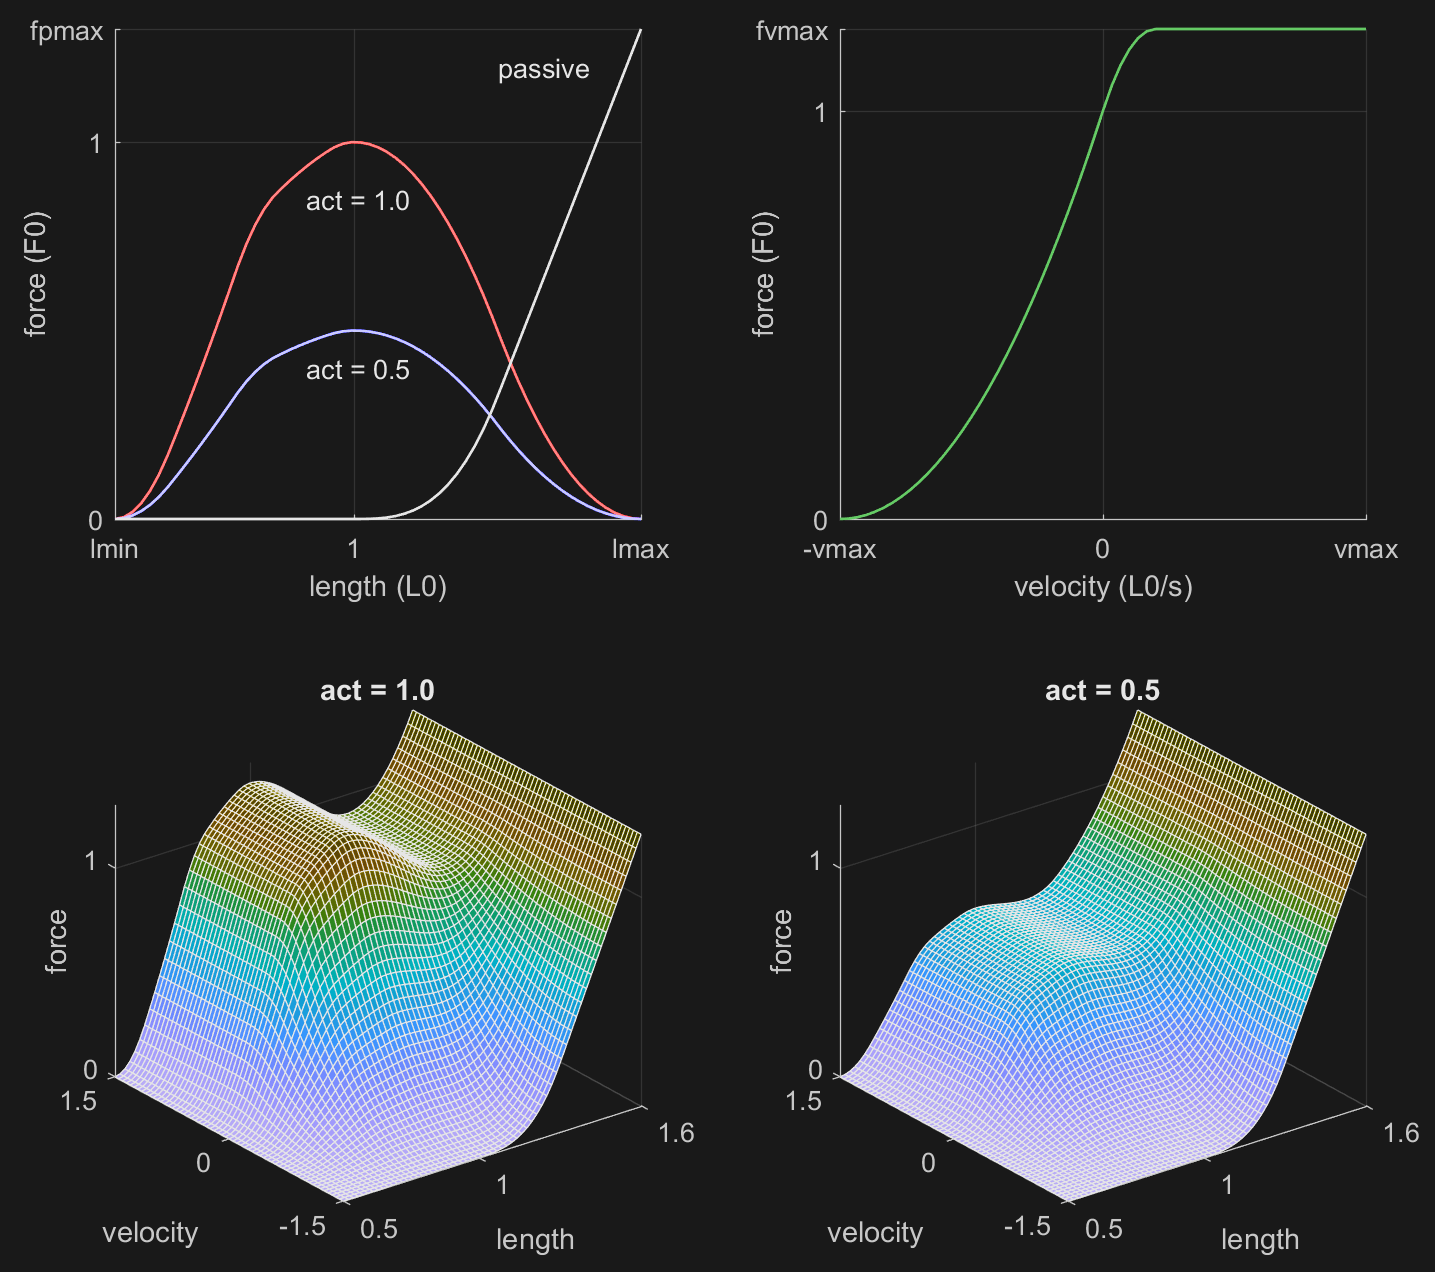
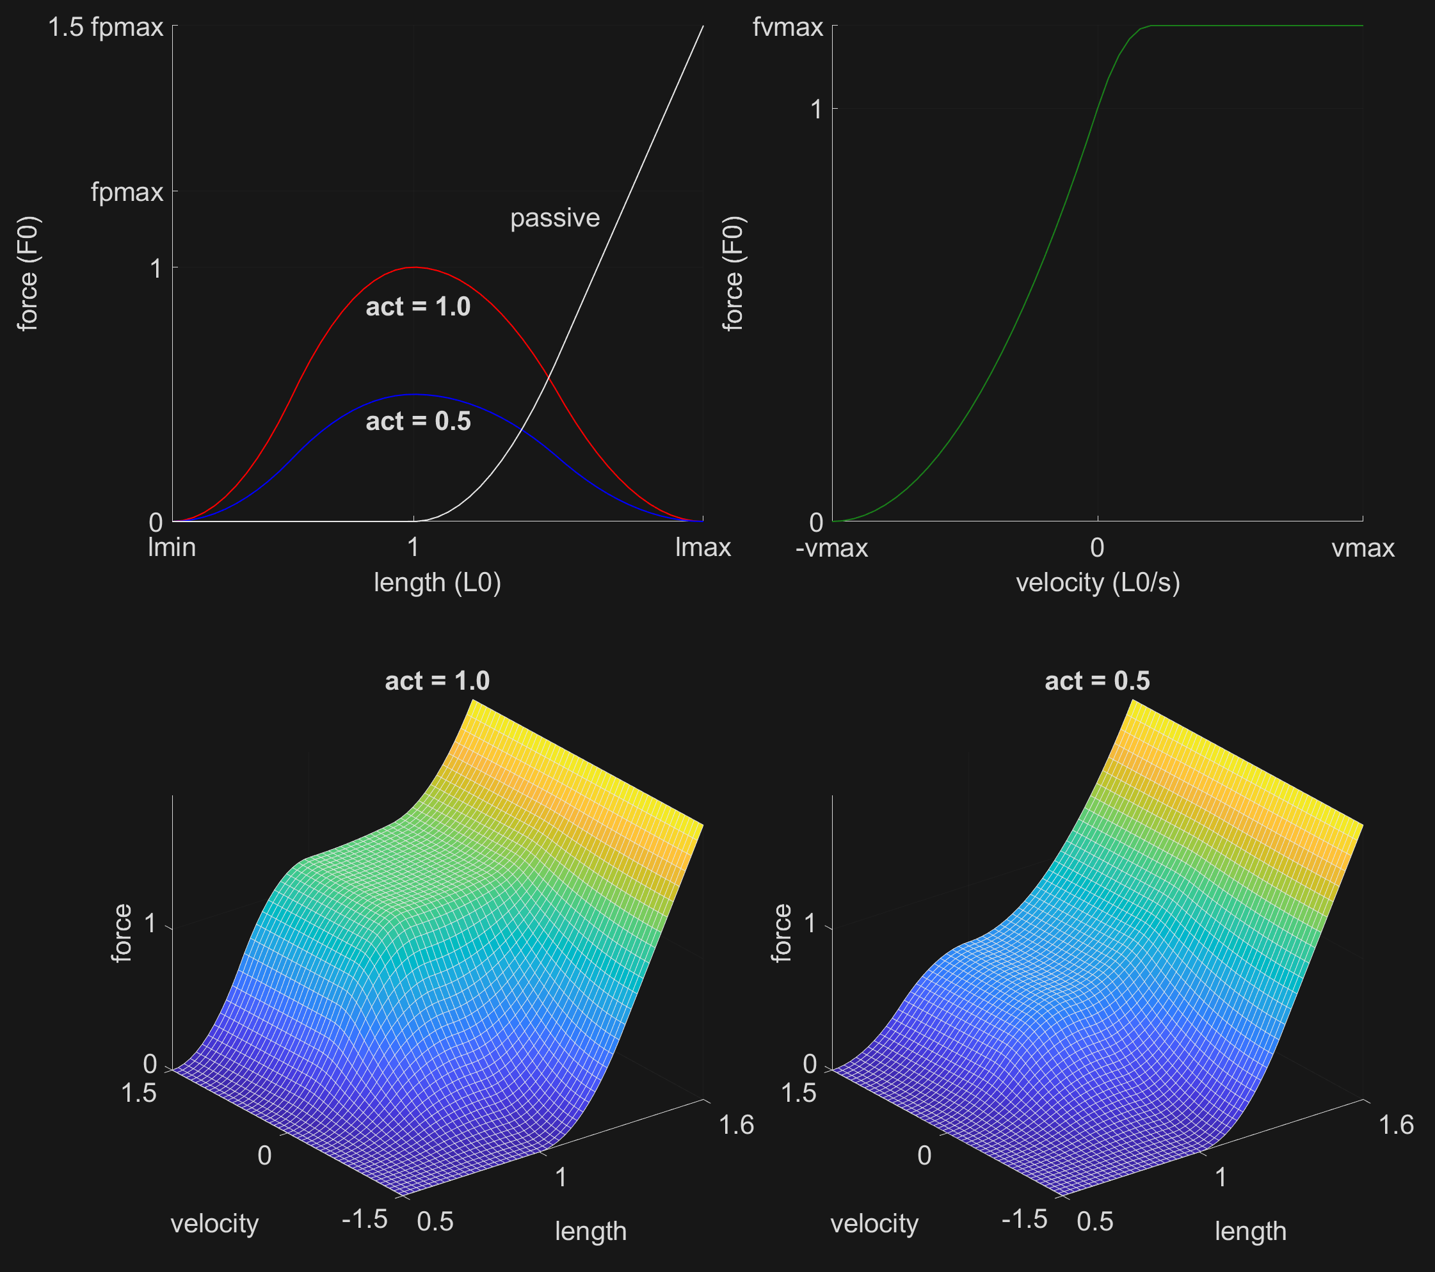
Update muscle model documentation to match the FLV curve implementation in `src/engine/engine_util_misc.c`

diff --git a/doc/_static/FLV.m b/doc/_static/FLV.m
@@ -23,6 +23,9 @@ function FLV(lmin, lmax, vmax, fpmax, fvmax)
   a = 0.5*(lmin+1);
   b = 0.5*(1+lmax);
   c = fvmax-1;
+  fontsize = 20;
+  axpos = {[0.12 0.59 0.37 0.39], [0.58 0.59 0.37 0.39], ...
+           [0.12 0.06 0.37 0.39], [0.58 0.06 0.37 0.39]};
 
     % length and velocity ranges to plot
     LL = linspace(lmin, lmax, 51);
@@ -37,10 +40,10 @@ function FLV(lmin, lmax, vmax, fpmax, fvmax)
             FP(i) = 0;
         elseif L<=b
             x = (L-1)/(b-1);
-            FP(i) = 0.25*fpmax*x*x*x;
+            FP(i) = 0.5*fpmax*x*x;
         else
             x = (L-b)/(b-1);
-            FP(i) = 0.25*fpmax*(1+3*x);
+            FP(i) = fpmax*(0.5+x);
         end
     end
 
@@ -49,7 +52,7 @@ function FLV(lmin, lmax, vmax, fpmax, fvmax)
     for i=1:length(LL)
         L = LL(i);
 
-        FL(i) = bump(L, lmin, 1, lmax) + 0.15*bump(L, lmin, 0.5*(lmin+0.95), 0.95);
+        FL(i) = bump(L, lmin, 1, lmax);
     end
 
     % velocity-active
@@ -72,6 +75,7 @@ function FLV(lmin, lmax, vmax, fpmax, fvmax)
     figure(1);
     clf;
     subplot(2,2,1);
+    set(gca, 'position', axpos{1});
     plot(LL, FL, 'r', 'linewidth', 1);
     hold on;
     plot(LL, 0.5*FL, 'b', 'linewidth', 1);
@@ -81,14 +85,15 @@ function FLV(lmin, lmax, vmax, fpmax, fvmax)
     ylabel('force (F0)');
     text(0.9, 0.85, 'act = 1.0');
     text(0.9, 0.4, 'act = 0.5');
-    text(1.3, 1.2, 'passive');
+    text(1.2, 1.2, 'passive');
     box off;
     grid on;
     set(gca, 'xtick', [lmin 1 lmax], 'xticklabel', {'lmin', '1', 'lmax'}, ...
-    'ytick', [0 1 fpmax], 'yticklabel', {'0', '1', 'fpmax'});
+    'ytick', [0 1 fpmax 1.5*fpmax], 'yticklabel', {'0', '1', 'fpmax', '1.5 fpmax'});
 
     % plot velocity
     subplot(2,2,2);
+    set(gca, 'position', axpos{2});
     set( plot(VV, FV, 'linewidth', 1), 'color', [.1 .5 .1]);
     axis tight;
     xlabel('velocity (L0/s)');
@@ -100,6 +105,7 @@ function FLV(lmin, lmax, vmax, fpmax, fvmax)
 
     % plot full activation
     subplot(2,2,3);
+    set(gca, 'position', axpos{3});
     surf(LL, VV, FV'*FL + ones(size(VV))'*FP);
     axis tight;
     xlabel('length');
@@ -111,6 +117,7 @@ function FLV(lmin, lmax, vmax, fpmax, fvmax)
 
     % plot half activation
     subplot(2,2,4);
+    set(gca, 'position', axpos{4});
     surf(LL, VV, 0.5*FV'*FL + ones(size(VV))'*FP);
     axis tight;
     xlabel('length');
@@ -119,6 +126,9 @@ function FLV(lmin, lmax, vmax, fpmax, fvmax)
     title('act = 0.5');
     box off;
     set(gca, 'xtick', [lmin, 1, lmax], 'ytick', [-vmax, 0, vmax], 'ztick', [0, 1]);
+    set(findall(gcf, '-property', 'fontsize'), 'fontsize', fontsize);
+    set(findall(gcf, 'string', 'act = 1.0'), 'fontweight', 'bold');
+    set(findall(gcf, 'string', 'act = 0.5'), 'fontweight', 'bold');
 end
 
 

diff --git a/doc/XMLreference.rst b/doc/XMLreference.rst
@@ -6283,7 +6283,7 @@ This element has nine custom attributes in addition to the common attributes:
 .. _actuator-muscle-fpmax:
 
 :at:`fpmax`: :at-val:`real, "1.3"`
-   Passive force generated at lmax, relative to the peak rest force.
+   Passive force scaling parameter, relative to the peak rest force.
 
 .. _actuator-muscle-fvmax:
 